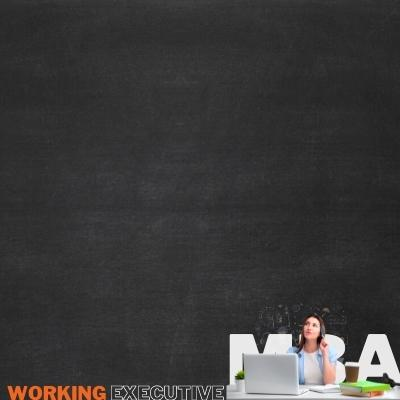
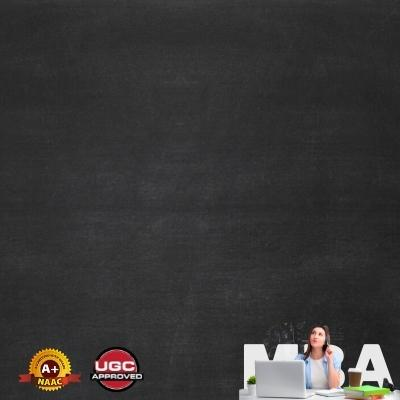
updates

Changed region(s): [[0.0, 0.78, 1.0, 1.0], [0.81, 0.75, 0.84, 0.78]]

diff --git a/index.html b/index.html
@@ -275,7 +275,7 @@
 
 									<!-- Title -->
 									<h4 class="h4-xl">MBA In Marketing Management |<span style="color: #ff6d33;">
-											18-24 months</span>
+											19-24 months (Online Mode)</span>
 									</h4>
 
 									<!-- Text -->
@@ -287,7 +287,9 @@
 
 									<!-- Button -->
 									<a href="#register-form" class="btn btn-tra-orange orange-hover">Request a call</a>
-
+									<BR>
+										<img height="130" width="130" src="images/NAAC.png"></img>
+										<img height="130" width="130" src="images/UGC.png"></img>
 								</div>
 							</div> <!-- END VIDEO TEXT -->
 
@@ -326,7 +328,7 @@
 
 									<!-- Title -->
 									<h4 class="h4-xl">MBA In Financial Management |<span style="color: #ff6d33;">
-											18-24 months</span> </h4>
+											19-24 months (Online Mode)</span> </h4>
 
 									<!-- Text -->
 									<p class="p-md">This program helps you to gain a better understanding of the
@@ -336,7 +338,9 @@
 									<!-- Button -->
 
 									<a href="#register-form" class="btn btn-tra-orange orange-hover">Request a call</a>
-
+									<BR>
+										<img height="130" width="130" src="images/NAAC.png"></img>
+										<img height="130" width="130" src="images/UGC.png"></img>
 								</div>
 							</div> <!-- END VIDEO TEXT -->
 
@@ -380,7 +384,7 @@
 
 									<!-- Title -->
 									<h4 class="h4-xl">MBA in Human Resource Management | <span style="color: #ff6d33;">
-											18-24 months</span></h4>
+											19-24 months (Online Mode)</span></h4>
 
 									<!-- Text -->
 									<p class="p-md">This program covers the principles in the four-semester, and
@@ -391,7 +395,9 @@
 									<!-- Button -->
 
 									<a href="#register-form" class="btn btn-tra-orange orange-hover">Request a call</a>
-
+									<BR>
+										<img height="130" width="130" src="images/NAAC.png"></img>
+										<img height="130" width="130" src="images/UGC.png"></img>
 								</div>
 							</div> <!-- END VIDEO TEXT -->
 
@@ -431,8 +437,8 @@
 								<div class="video-txt">
 
 									<!-- Title -->
-									<h4 class="h4-xl">MBA In Operations Management | <span style="color: #ff6d33;">18-24
-											months</span></h4>
+									<h4 class="h4-xl">MBA In Operations Management | <span style="color: #ff6d33;">19-24
+											months (Online Mode)</span></h4>
 
 									<!-- Text -->
 									<p class="p-md">In this program, you will learn to integrate the fundamentals of
@@ -443,7 +449,9 @@
 									<!-- Button -->
 
 									<a href="#register-form" class="btn btn-tra-orange orange-hover">Request a call</a>
-
+									<BR>
+										<img height="130" width="130" src="images/NAAC.png"></img>
+										<img height="130" width="130" src="images/UGC.png"></img>
 								</div>
 							</div> <!-- END VIDEO TEXT -->
 
@@ -485,7 +493,7 @@
 
 									<!-- Title -->
 									<h4 class="h4-xl">MBA In Supply Chain Management |<span style="color: #ff6d33;">
-											18-24 months</span></h4>
+											19-24 months (Online Mode)</span></h4>
 
 									<!-- Text -->
 									<p class="p-md">Supply chain MBA offers a wide range of career opportunities,
@@ -496,7 +504,9 @@
 									<!-- Button -->
 
 									<a href="#register-form" class="btn btn-tra-orange orange-hover">Request a call</a>
-
+									<BR>
+										<img height="130" width="130" src="images/NAAC.png"></img>
+										<img height="130" width="130" src="images/UGC.png"></img>
 								</div>
 							</div> <!-- END VIDEO TEXT -->
 
@@ -536,7 +546,7 @@
 
 									<!-- Title -->
 									<h4 class="h4-xl">MBA Diploma in Business Management |<span style="color: #ff6d33;">
-											18-24 months</span> </h4>
+											19-24 months (Online Mode)</span> </h4>
 
 									<!-- Text -->
 									<p class="p-md">A Master of Business Administration is an advanced degree
@@ -546,7 +556,9 @@
 									<!-- Button -->
 
 									<a href="#register-form" class="btn btn-tra-orange orange-hover">Request a call</a>
-
+									<BR>
+										<img height="130" width="130" src="images/NAAC.png"></img>
+										<img height="130" width="130" src="images/UGC.png"></img>
 								</div>
 							</div> <!-- END VIDEO TEXT -->
 
@@ -588,7 +600,7 @@
 									<!-- Title -->
 									<h4 class="h4-xl">MBA In International Trade Management |<span
 											style="color: #ff6d33;">
-											18-24 months</span></h4>
+											19-24 months (Online Mode)</span></h4>
 
 									<!-- Text -->
 									<p class="p-md">MBA in International Trade Management is an advanced degree in
@@ -599,7 +611,9 @@
 									<!-- Button -->
 
 									<a href="#register-form" class="btn btn-tra-orange orange-hover">Request a call</a>
-
+									<BR>
+										<img height="130" width="130" src="images/NAAC.png"></img>
+										<img height="130" width="130" src="images/UGC.png"></img>
 								</div>
 							</div> <!-- END VIDEO TEXT -->
 
@@ -638,7 +652,7 @@
 									<!-- Title -->
 									<h4 class="h4-xl">MBA In Information Technology and Systems Management | <span
 											style="color: #ff6d33;">
-											18-24 months</span> </h4>
+											19-24 months (Online Mode)</span> </h4>
 
 									<!-- Text -->
 									<p class="p-md">MBA in IT & Systems Management helps you to determine ideas on
@@ -647,7 +661,9 @@
 
 									<!-- Button -->
 
-									<a href="#register-form" class="btn btn-tra-orange orange-hover">Request a call</a>
+									<a href="#register-form" class="btn btn-tra-orange orange-hover">Request a call</a><BR>
+									<img height="130" width="130" src="images/NAAC.png"></img>
+									<img height="130" width="130" src="images/UGC.png"></img>
 
 								</div>
 							</div>
@@ -682,7 +698,7 @@
 
 									<!-- Title -->
 									<h4 class="h4-xl">MBA In Retail Management | <span style="color: #ff6d33;">
-											18-24 months</span> </h4>
+											19-24 months (Online Mode)</span> </h4>
 
 									<!-- Text -->
 									<p class="p-md">MBA in retail management courses is necessary to understand the
@@ -692,7 +708,9 @@
 									<!-- Button -->
 
 									<a href="#register-form" class="btn btn-tra-orange orange-hover">Request a call</a>
-
+									<BR>
+										<img height="130" width="130" src="images/NAAC.png"></img>
+										<img height="130" width="130" src="images/UGC.png"></img>
 								</div>
 							</div>
 						</div>
@@ -728,7 +746,7 @@
 									<!-- Title -->
 									<h4 class="h4-xl">MBA In Banking and Finance Management | <span
 											style="color: #ff6d33;">
-											18-24 months</span> </h4>
+											19-24 months (Online Mode)</span> </h4>
 
 									<!-- Text -->
 									<p class="p-md">This two-year MBA in Banking & Finance Management NMIMS is
@@ -739,7 +757,9 @@
 									<!-- Button -->
 
 									<a href="#register-form" class="btn btn-tra-orange orange-hover">Request a call</a>
-
+									<BR>
+										<img height="130" width="130" src="images/NAAC.png"></img>
+										<img height="130" width="130" src="images/UGC.png"></img>
 								</div>
 							</div>
 						</div>
@@ -884,28 +904,28 @@
 							<div id="input-phone" class="col-md-12">
 								<p>Select Interested Course*</p>
 								<select class="form-control" name="course">
-									<option value="MBA In Marketing Management  | 18-24 months">MBA In Marketing
-										Management | 18-24 months</option>
-									<option value="MBA In Financial Management  | 18-24 months ">MBA In Financial
-										Management | 18-24 months </option>
-									<option value="MBA in Human Resource Management  | 18-24 months">MBA in Human
-										Resource Management | 18-24 months</option>
-									<option value="MBA In Operations Management  | 18-24 months">MBA In Operations
-										Management | 18-24 months</option>
-									<option value="MBA In Supply Chain Management | 18-24 months">MBA In Supply Chain
-										Management | 18-24 months</option>
-									<option value="MBA Diploma in Business Management | 18-24 months">MBA Diploma in
-										Business Management | 18-24 months</option>
-									<option value="MBA In International Trade Management | 18-24 months">MBA In
-										International Trade Management | 18-24 months</option>
-									<option value="MBA In Information Technology and Systems Management | 18-24 months">
-										MBA In Information Technology and Systems Management | 18-24 months</option>
+									<option value="MBA In Marketing Management  | 19-24 months">MBA In Marketing
+										Management | 19-24 months (Online Mode)</option>
+									<option value="MBA In Financial Management  | 19-24 months ">MBA In Financial
+										Management | 19-24 months (Online Mode)</option>
+									<option value="MBA in Human Resource Management  | 19-24 months">MBA in Human
+										Resource Management | 19-24 months (Online Mode)</option>
+									<option value="MBA In Operations Management  | 19-24 months">MBA In Operations
+										Management | 19-24 months (Online Mode)</option>
+									<option value="MBA In Supply Chain Management | 19-24 months">MBA In Supply Chain
+										Management | 19-24 months (Online Mode)</option>
+									<option value="MBA Diploma in Business Management | 19-24 months">MBA Diploma in
+										Business Management | 19-24 months (Online Mode)</option>
+									<option value="MBA In International Trade Management | 19-24 months">MBA In
+										International Trade Management | 19-24 months (Online Mode)</option>
+									<option value="MBA In Information Technology and Systems Management | 19-24 months">
+										MBA In Information Technology and Systems Management | 19-24 months (Online Mode)</option>
 
-									<option value="MBA In Retail Management | 18-24 months">MBA In Retail Management |
-										18-24 months</option>
+									<option value="MBA In Retail Management | 19-24 months">MBA In Retail Management |
+										19-24 months (Online Mode)</option>
 
-									<option value="MBA In Banking and Finance Management | 18-24 months">MBA In Banking
-										and Finance Management | 18-24 monthst</option>
+									<option value="MBA In Banking and Finance Management | 19-24 months">MBA In Banking
+										and Finance Management | 19-24 month (Online Mode)</option>
 
 								</select>
 							</div>
@@ -1597,29 +1617,29 @@
 								<div id="input-course" class="col-md-12">
 									<p>Your Course Name*</p>
 									<select name="course1" class="form-control">
-										<option value="MBA In Marketing Management  | 18-24 months">MBA In Marketing
-											Management | 18-24 months</option>
-										<option value="MBA In Financial Management  | 18-24 months ">MBA In Financial
-											Management | 18-24 months </option>
-										<option value="MBA in Human Resource Management  | 18-24 months">MBA in Human
-											Resource Management | 18-24 months</option>
-										<option value="MBA In Operations Management  | 18-24 months">MBA In Operations
-											Management | 18-24 months</option>
-										<option value="MBA In Supply Chain Management | 18-24 months">MBA In Supply
-											Chain Management | 18-24 months</option>
-										<option value="MBA Diploma in Business Management | 18-24 months">MBA Diploma in
-											Business Management | 18-24 months</option>
-										<option value="MBA In International Trade Management | 18-24 months">MBA In
-											International Trade Management | 18-24 months</option>
+										<option value="MBA In Marketing Management  | 19-24 months">MBA In Marketing
+											Management | 19-24 months</option>
+										<option value="MBA In Financial Management  | 19-24 months ">MBA In Financial
+											Management | 19-24 months </option>
+										<option value="MBA in Human Resource Management  | 19-24 months">MBA in Human
+											Resource Management | 19-24 months</option>
+										<option value="MBA In Operations Management  | 19-24 months">MBA In Operations
+											Management | 19-24 months</option>
+										<option value="MBA In Supply Chain Management | 19-24 months">MBA In Supply
+											Chain Management | 19-24 months</option>
+										<option value="MBA Diploma in Business Management | 19-24 months">MBA Diploma in
+											Business Management | 19-24 months</option>
+										<option value="MBA In International Trade Management | 19-24 months">MBA In
+											International Trade Management | 19-24 months</option>
 										<option
-											value="MBA In Information Technology and Systems Management | 18-24 months">
-											MBA In Information Technology and Systems Management | 18-24 months</option>
+											value="MBA In Information Technology and Systems Management | 19-24 months">
+											MBA In Information Technology and Systems Management | 19-24 months</option>
 
-										<option value="MBA In Retail Management | 18-24 months">MBA In Retail Management
-											| 18-24 months</option>
+										<option value="MBA In Retail Management | 19-24 months">MBA In Retail Management
+											| 19-24 months</option>
 
-										<option value="MBA In Banking and Finance Management | 18-24 months">MBA In
-											Banking and Finance Management | 18-24 monthst</option>
+										<option value="MBA In Banking and Finance Management | 19-24 months">MBA In
+											Banking and Finance Management | 19-24 monthst</option>
 									</select>
 								</div>
 
@@ -1731,7 +1751,7 @@
 					<div class="col-lg-8">
 						<ul class="bottom-footer-list">
 							<li>
-								<p>&copy; Copyright Learning worm 2020</p>
+								<p>&copy; Copyright Learning worm 2021</p>
 							</li>
 
 							<li>

diff --git a/index-3.html b/index-3.html
@@ -164,10 +164,7 @@
 								information and guidance - Apply for scholarship-->
 							<p class="p-md">
 
-								Boost your career by earning your EXECUTIVE MBA through Learning Worm. This online MBA
-								is a 15-month program that offers specializations in areas and projects to help prepare
-								students for prospective employment.
-
+								Online MBA - Under UGC & NAAC Accreditation - Expert counselling - Authentic information and guidance - Apply for scholarship
 
 							</p>
 
@@ -202,10 +199,9 @@
 							laboratory classes, two in business communication, one in leadership development, and
 							one in software lab.
 
-							<br>
-							<br>
-							The Choices of 11 Specific Specializations in MBA For Working Executives include:
-
+								<br>
+								<br>
+								The Choices of 5 Specific Specializations in MBA For Working Executives include:
 
 
 						</p>
@@ -213,26 +209,22 @@
 						<!-- List -->
 						<ul class="txt-list mb-15">
 
-							<li>Marketing Management
+								<li>Applied Finance
 
 							</li>
 
-							<li>Managerial Accounting
-							</li>
+								<li>Business Analytics
+								</li>
 
-							<li>Organizational Behaviour and Human Resource Management
-							</li>
+								<li>Leadership & Strategy
+								</li>
 
-							<li>Operations and Supply Chain Management
-							</li>
-							<li> Sales and Distribution Management
-							</li>
-							<li>Strategic Management</li>
-							<li>Data Analytics and Decision Making</li>
-							<li>Presentation Skills in Business</li>
-							<li>Innovation and Change Management</li>
-							<li>AI for Managers</li>
-						</ul>
+								<li>Marketing Management
+								</li>
+								<li> Operations & Supply Chains Management
+								</li>
+								
+							</ul>
 
 					</div>
 				</div> <!-- END ABOUT TEXT -->
@@ -1329,9 +1321,12 @@
 			<!-- END FOOTER CONTENT -->
 
 
-			<!-- BOTTOM FOOTER -->
-			<div class="bottom-footer">
-				<div class="row">
+						<!-- FOOTER COPYRIGHT -->
+						<div class="col-lg-8">
+							<ul class="bottom-footer-list">
+								<li>
+									<p>&copy; Copyright Learning worm 2021</p>
+								</li>
 
 
 					<!-- FOOTER COPYRIGHT -->

diff --git a/css/responsive.css b/css/responsive.css
@@ -682,7 +682,7 @@
   /* Video */
   .video-1-holder {
     margin: 0;
-    padding: 40px;
+    padding: 20px;
   }
 
   #video-1 .video-txt {
